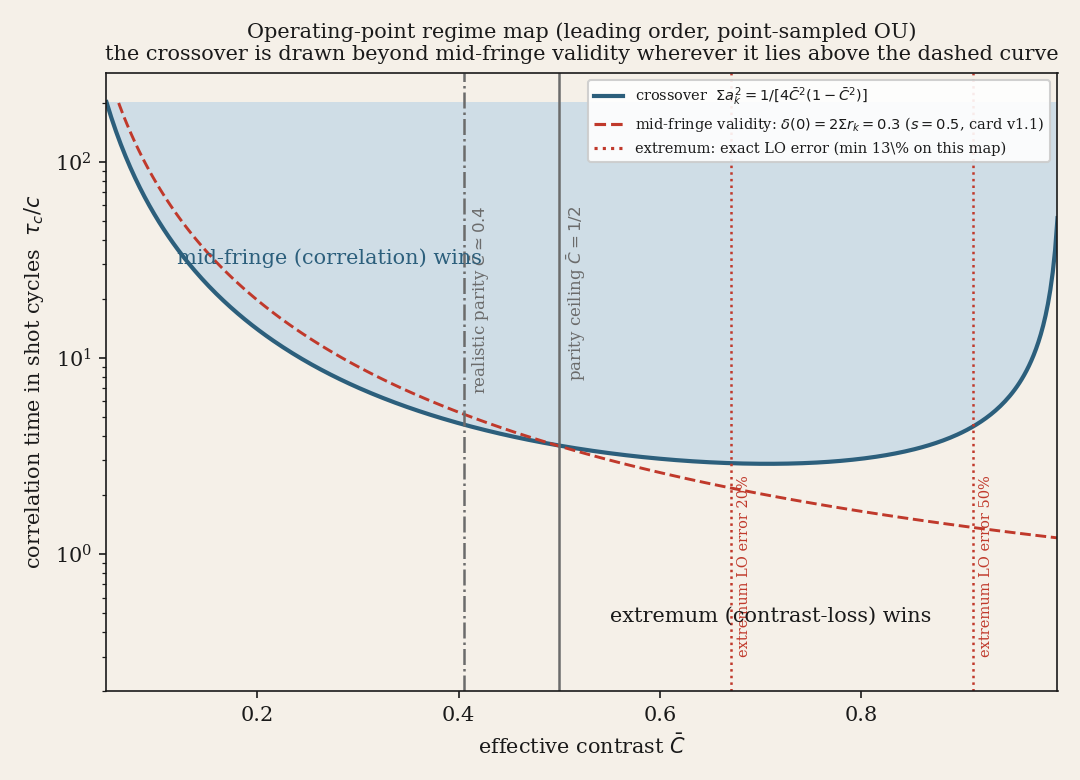
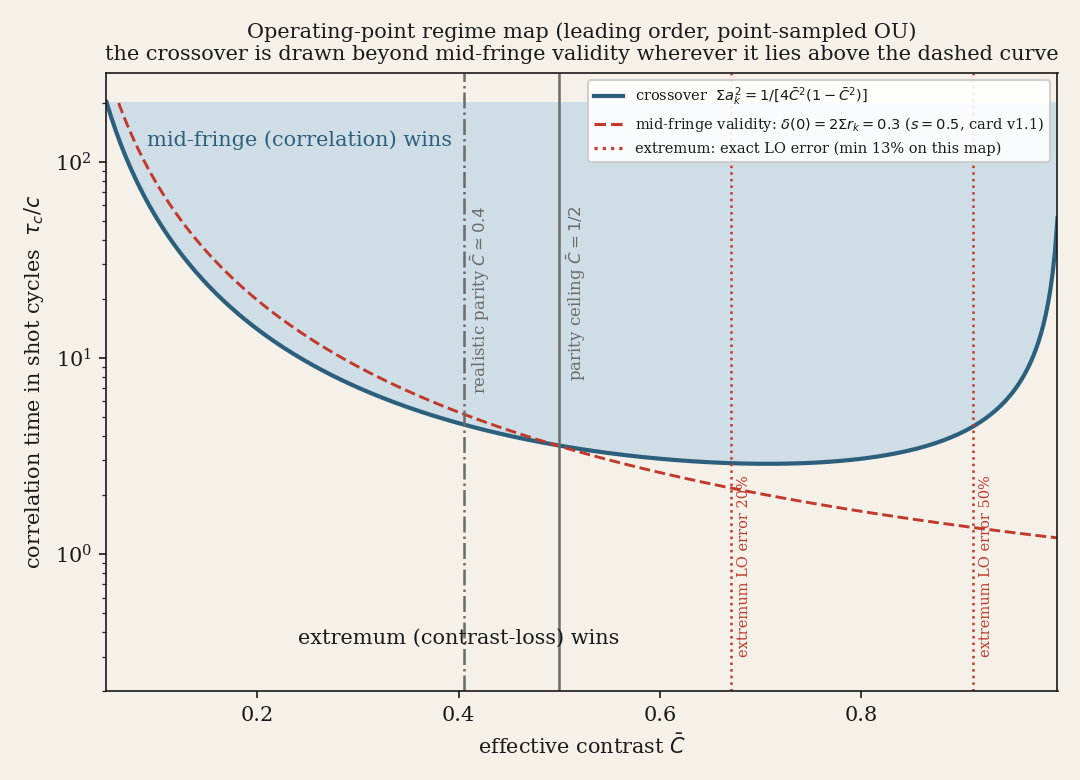
C15 split, oracle-CUSUM claim, feedback forms, figure labels
C15 published a retained result under status withdrawn. Note 03 s1 closes the item
with "No longer an open item" and keeps the at-most-6 % measurement; errata E6
withdraws only the 10 % level, and the labbook scopes it correctly as
"withdrawn (10 % bonus)". Split: C15 now covers the withdrawn 10 % figure alone, and
C24 carries the retained measurement with its three rows (-0.9 +- 1.1 %, +6.1 +- 1.3 %,
+0.2 +- 2.0 %), stated as a high-contrast footnote rather than a global bound.

C25 covers note 01 s7, ten oracle-CUSUM delay numbers that no claim cited. Its producer
is sid_run2.py's F2 block at seeds 31/32, recorded in seeds.md. Noted while writing it:
sid_run2.py:113 writes res["F2"], but the archived res2_partial.json holds only B2 --
the copy SCHEMA.md records as reconstructed from stdout after a figure crash lost that
key, so the claim is flagged unreproduced-from-file.

Feedback forms: .github/DISCUSSION_TEMPLATE/scientific-feedback.md was GitHub form YAML
with unterminated front matter in a .md file. GitHub reads discussion forms only from
.yml/.yaml, so its three required prompts reached nobody. Renamed and completed with
required validations. documentation-defect.md and reference-correction.md gained the
claim-or-run id and the reproduction question the card requires and docs/feedback.md
promises; reproduction-defect.md already had equivalent fields and is untouched.

Regime map relabelled: the legend rendered a literal "13\%" outside mathtext, and the
[…]

diff --git a/analysis/runs/sid_core.py b/analysis/runs/sid_core.py
@@ -277,10 +277,10 @@ for lv, c in ext_crossings.items():
 ax.axvline(0.5, color=STONE, lw=1.2); ax.axvline(0.405, color=STONE, lw=1.2, ls="-.")
 ax.text(0.505, 60, "parity ceiling $\\bar C=1/2$", color=STONE, fontsize=8, rotation=90, va="top")
 ax.text(0.41, 60, "realistic parity $\\bar C\\simeq0.4$", color=STONE, fontsize=8, rotation=90, va="top")
-ax.text(0.12, 30, "mid-fringe (correlation) wins", color=SEA, fontsize=10)
-ax.text(0.55, 0.45, "extremum (contrast-loss) wins", color=INK, fontsize=10)
+ax.text(0.09, 120, "mid-fringe (correlation) wins", color=SEA, fontsize=10)
+ax.text(0.24, 0.35, "extremum (contrast-loss) wins", color=INK, fontsize=10)
 ax.plot([], [], color=SIG, ls="--", label=f"mid-fringe validity: $\\delta(0)=2\\Sigma r_k={DELTA0_LEVEL}$ ($s={s_ref}$, card v1.1)")
-ax.plot([], [], color=SIG, ls=":", label=f"extremum: exact LO error (min {100*ext_err_min:.0f}\\% on this map)")
+ax.plot([], [], color=SIG, ls=":", label=f"extremum: exact LO error (min {100*ext_err_min:.0f}% on this map)")
 ax.set_yscale("log"); ax.set_xlabel("effective contrast $\\bar C$"); ax.set_ylabel("correlation time in shot cycles  $\\tau_c/c$")
 ax.set_title("Operating-point regime map (leading order, point-sampled OU)\n"
              "the crossover is drawn beyond mid-fringe validity wherever it lies above the dashed curve",

diff --git a/docs/status.md b/docs/status.md
@@ -1,6 +1,6 @@
 # Current status
 
-Generated 2026-09-04T05:30:26+00:00 from ledgers/status.yaml. Do not edit.
+Generated 2026-09-04T05:34:01+00:00 from ledgers/status.yaml. Do not edit.
 
 | id | status | statement | note | errata / supersedes |
 |---|---|---|---|---|
@@ -18,7 +18,7 @@ Generated 2026-09-04T05:30:26+00:00 from ledgers/status.yaml. Do not edit.
 | C12 | open | Composite-model (bank) detection at mid-fringe shows no resolved penalty relative to the known-tau_c fixed endpoint (0.98x) | notes/2026-09-03-note-03a-errata.md E2 | notes/2026-09-03-note-04-reproduction-defect.md#3 (demoted from pilot - 0.98x is 1299.03/1332.19 and the denominator is the withdrawn C18 benchmark entry) |
 | C13 | result | tau-scan identifiability — pointwise band gives zero retained information at tau_c <~ T2/5; Markov-parametric class retains 2e-3 to 2e-2 there and 20-50 % (eta0=2 %) for tau_c >~ T2; general fast-noise criterion Delta Gamma_phi > 2 eta0 Gamma_hat | notes/2026-09-02-note-03.md#4; note-03a E4 |  |
 | C14 | pilot | In the tested independent-phase, small-modulation servo model both channels reduce to the binary-link form with matching effective contrast within 2 %; C_eff>0.8 needs kappa >~ 5 at C1=C2=0.9 | notes/2026-09-02-note-03.md#5; note-03a E5 |  |
-| C15 | withdrawn | Extremum-stream correlation bonus at most 6 % across tested points; the earlier 10 % figure was Monte-Carlo noise | notes/2026-09-02-note-03.md#1; note-03a E6 | notes/2026-09-03-note-03a-errata.md#E6 |
+| C15 | withdrawn | Extremum-stream correlation bonus at the 10 % level - rejected as Monte-Carlo noise. This entry covers only the withdrawn 10 % figure; the retained at-most-6 % measurement is C24. Split 4 Sept 2026, the two having been conflated in one withdrawn entry so that the retained result was published as withdrawn. | notes/2026-09-02-note-03.md#1; note-03a E6 | notes/2026-09-03-note-03a-errata.md#E6 |
 | C16 | withdrawn | Learn-then-lock-in O(A^2) vs O(A^4) scaling argument (draft 03) | cards/history/scope-path.md | cards/v1.0-frozen.md (adaptive policy section replaces it) |
 | C17 | withdrawn | Archived calibration rows for oracle-mid(tc=20) [h*=4.359, ARL=33852+-3394] and learner-interleave-B10(bank) [h*=3.55, ARL=34015+-3017] in note 03 section 2 - provenance lost; no code in this repository generates them, and they are not reproduced even when the simulator is driven at their own archived threshold. The other five rows of that table regenerate bit-identically and retain their standing. | notes/2026-09-03-note-04-reproduction-defect.md#2 | notes/2026-09-03-note-04-reproduction-defect.md#2 |
 | C18 | withdrawn | Delay entries measured at the two thresholds withdrawn under C17 - oracle-mid(tc=20) at tau_c/c=20 (1332.19+-114.43) and learner-interleave-B10(bank) at tau_c/c=20, 5, 1 (2044.02+-178.89, 2680.20+-256.65, 4580.78+-339.08). The tau_c/c=20 benchmark is min(oracle-mid(tc=20), extremum-only) and is one of these, so every ratio reported at tau_c/c=20 divides by a withdrawn quantity; the matched-E0[T] premise fails there (measured 44699 and 47313 against a 3e4 target). | notes/2026-09-03-note-04-reproduction-defect.md#3 | notes/2026-09-03-note-04-reproduction-defect.md#3 |
@@ -27,3 +27,5 @@ Generated 2026-09-04T05:30:26+00:00 from ledgers/status.yaml. Do not edit.
 | C21 | result | Contrast dependence of the extremum leading-order accuracy. At q = s^2 Cbar/(1-Cbar^2) = 0.06 the leading-order overestimate is 10.1 % at Cbar=0.3, 7.3 % at 0.4, 5.6 % at 0.5, 3.6 % at 0.7 and 2.4 % at 0.9; at q = 0.17 it is 30.5, 21.6, 16.3, 10.3 and 6.8 %. At the reference contrast Cbar=0.4, 6 % accuracy holds only for q <= 0.0497 and 20 % only for q <= 0.1583. The mechanism is the first omitted term, I_exact/I_LO = 1 - k s^2 + O(s^4) with k = 1/2 + Cbar^2/(3(1-Cbar^2)), confirmed against the closed form at 60-digit precision. Replaces the contrast-independent ranges withdrawn as C01; the exact divergence and its asymptotic expansion are unaffected. | notes/2026-09-03-note-01a-errata.md | C01 |
 | C22 | withdrawn | Validity overlays on the principal regime map as published before 4 Sept 2026. The mid-fringe overlay drew the v1.0 box withdrawn under C03 (boundary at tau_c/c = 376 at Cbar=0.4, s=0.5, against 5.29 for the card v1.1 criterion delta(0) = 0.3), and the extremum overlay drew the uniform bound withdrawn under C01. Both errors overstated the region where the leading-order expansion is valid. | notes/2026-09-04-note-06-regime-map-overlays.md#1 | notes/2026-09-04-note-06-regime-map-overlays.md |
 | C23 | result | Leading-order validity of the crossover curve on the regime map at s=0.5. Under the card v1.1 criterion delta(0) = 0.3 the crossover lies inside its own validity region only for Cbar of about 0.2 to 0.5 (19.69 vs 14.00 at 0.2; 5.29 vs 4.65 at 0.4; 3.55 vs 3.57 at 0.5, on the boundary) and beyond it at 0.7, 0.9 and 0.995. Separately, the exact extremum leading-order error at s=0.5 is nowhere better than 13.2 percent on this map, reaching 20 percent at Cbar=0.6705 and 50 percent at Cbar=0.9110, so the 6 percent level is not attained anywhere on it. The exact-comparator map carrying C08 is unaffected. | notes/2026-09-04-note-06-regime-map-overlays.md#1 | C22 |
+| C24 | result | Extremum-stream correlation bonus is at most 6 % and only in the high-contrast, long-correlation-time corner. Measured excess over the marginal Bernoulli divergence at 3.84e6 shots per point - Cbar=0.9, s=0.3, tau_c/c=5 gives -0.9 +- 1.1 %; Cbar=0.9, s=0.3, tau_c/c=20 gives +6.1 +- 1.3 %; Cbar=0.4, s=0.5, tau_c/c=20 gives +0.2 +- 2.0 %. Zero within error at tau_c/c=5 and at parity contrast, so the extremum formula is exact at parity contrast and a lower bound in that one corner. Stated as a footnote, not as a global bound. | notes/2026-09-02-note-03.md#1; notes/2026-09-03-note-03a-errata.md E6 | C15 |
+| C25 | result | Oracle CUSUM delay is predicted by the exact rate to about 10 %, and runs at 0.8-0.9 of h/I. At gamma=1e3, h=6.9, Cbar=0.4, s=0.5 - tau_c/c=20 extremum 4340(250) against h/I=5330 and mid-fringe 2010(170) against h/I_exact=2240 (the card leading order would give 910); tau_c/c=5 extremum 4260(240) and mid-fringe 7130(660) against 7780, so the extremum wins by 1.7x where the card leading order put the crossover; tau_c/c=1 mid-fringe 79000(6800) against 92700. The exact rate is a usable delay predictor; the card mid-fringe leading-order rate is not. | notes/2026-09-02-note-01.md#7 |  |

diff --git a/.github/ISSUE_TEMPLATE/reference-correction.md b/.github/ISSUE_TEMPLATE/reference-correction.md
@@ -2,5 +2,7 @@
 name: Reference correction
 about: A citation is wrong, missing, or mis-characterised
 ---
+**Claim id or run script that relies on it (or `none`):**
 **Reference key (references/bibliography.bib):**
-**Correction and source:**
+**Correction and source (identifier; abstract or full text):**
+**Did you reproduce anything? (yes/no; what):**

diff --git a/docs/roadmap.md b/docs/roadmap.md
@@ -1,6 +1,6 @@
 # Roadmap
 
-Generated 2026-09-04T05:30:26+00:00 from ledgers/roadmap.yaml. Do not edit.
+Generated 2026-09-04T05:34:01+00:00 from ledgers/roadmap.yaml. Do not edit.
 
 | id | title | state | gates_freeze |
 |---|---|---|---|

diff --git a/.github/ISSUE_TEMPLATE/documentation-defect.md b/.github/ISSUE_TEMPLATE/documentation-defect.md
@@ -2,5 +2,7 @@
 name: Documentation defect
 about: A document is inconsistent with the ledger or unclear
 ---
+**Claim id or run script (or `none`):**
 **File and location:**
 **Problem:**
+**Did you reproduce anything? (yes/no; what):**

diff --git a/docs/milestones.md b/docs/milestones.md
@@ -1,6 +1,6 @@
 # Milestones
 
-Generated 2026-09-04T05:30:26+00:00 from ledgers/milestones.yaml. Do not edit.
+Generated 2026-09-04T05:34:01+00:00 from ledgers/milestones.yaml. Do not edit.
 
 | date | tag | summary |
 |---|---|---|
